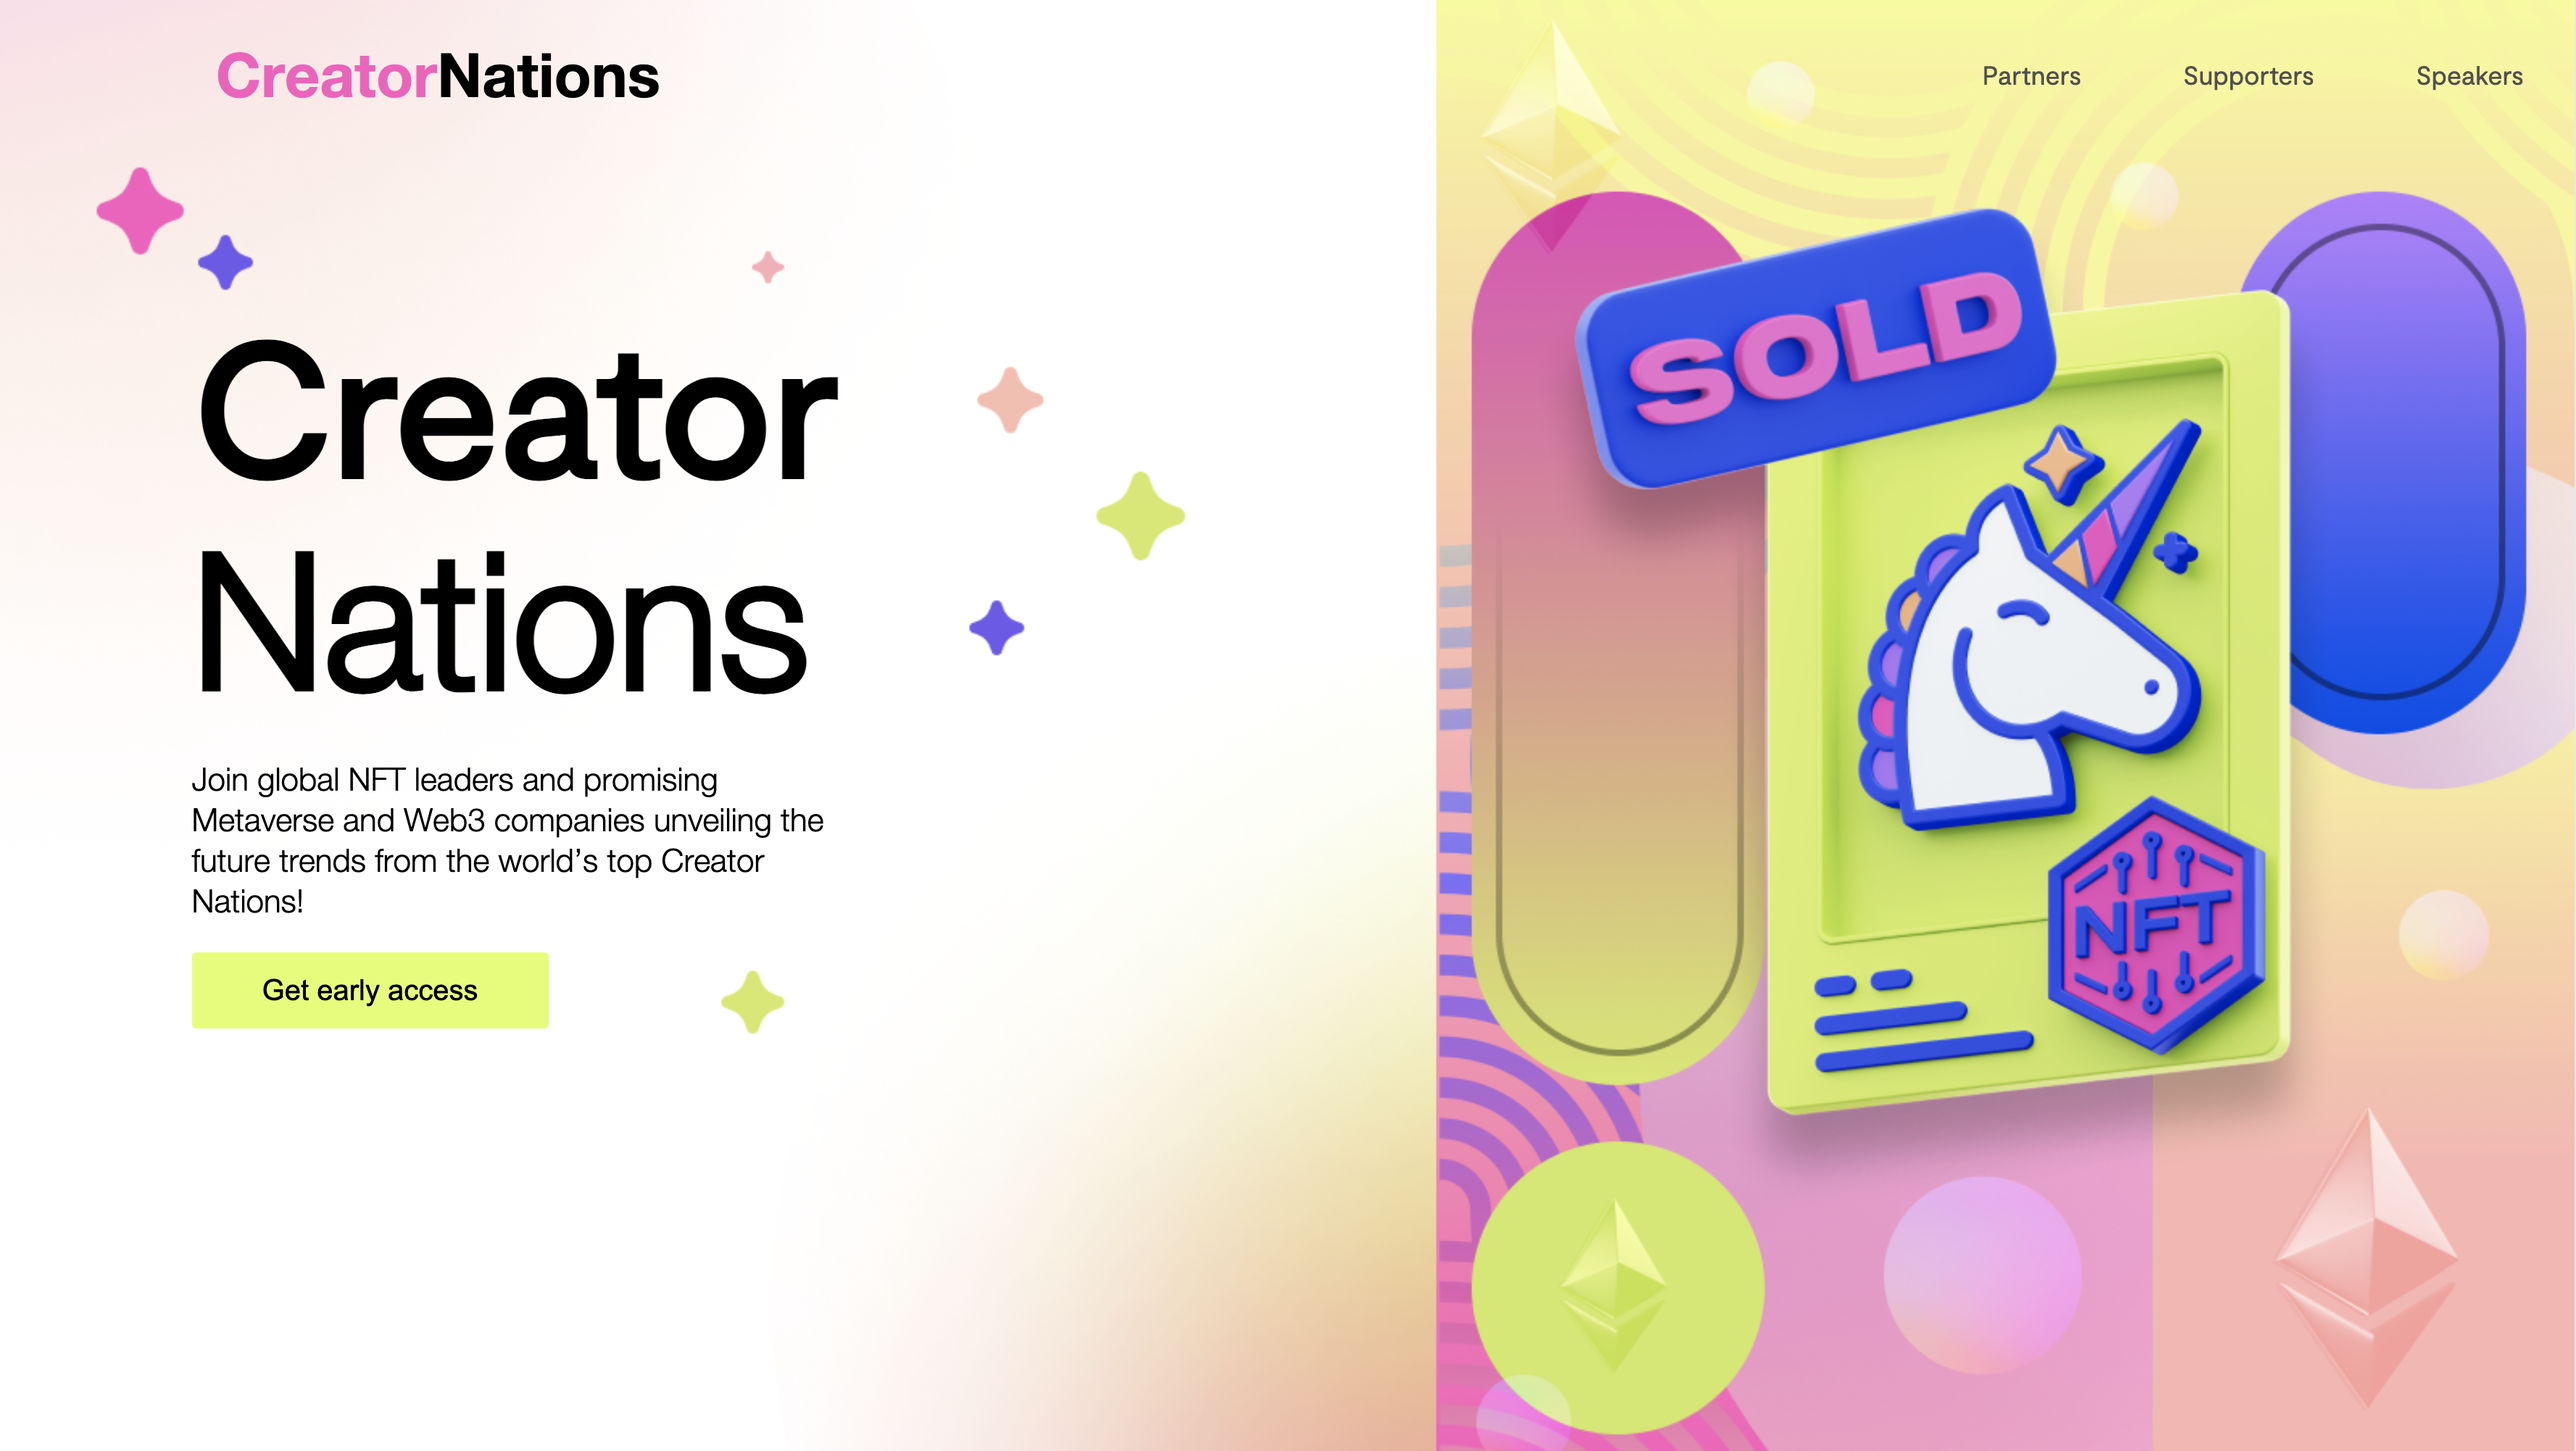
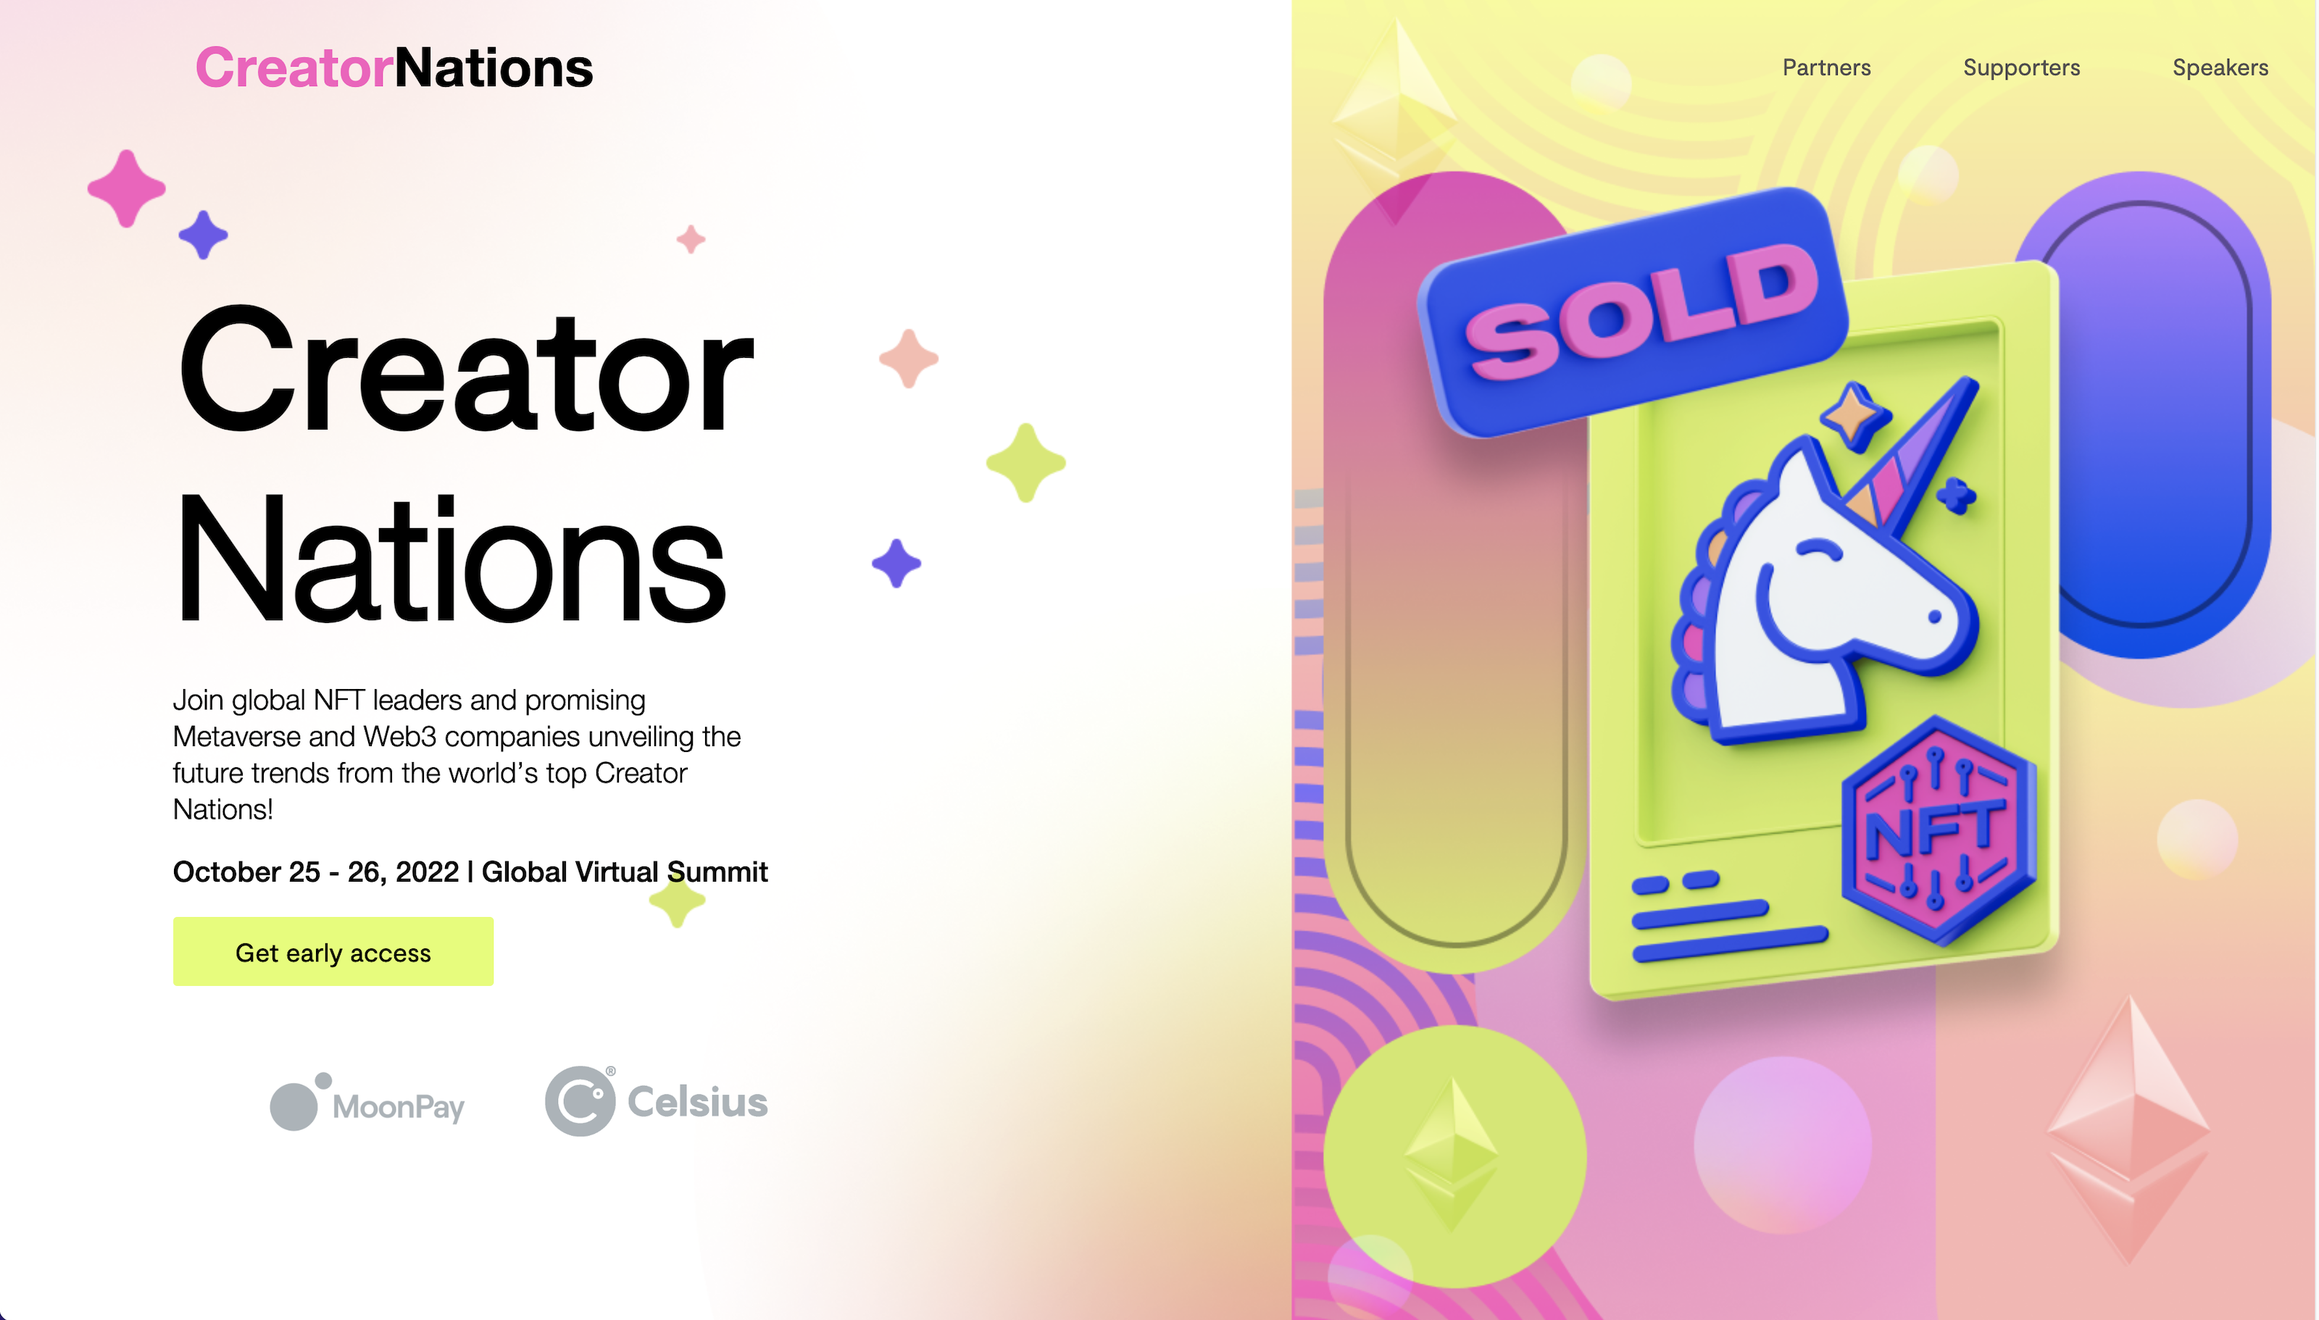
Update summit date, fix contact and update metadata image

diff --git a/pages/_document.js b/pages/_document.js
@@ -5,7 +5,7 @@ export default class MyDocument extends Document {
     return (
       <Html>
         <Head>
-          <meta itemProp="name" content="Cryptoweek.co.il" />
+          <meta itemProp="name" content="CreatorNations.com" />
           <meta
             itemProp="description"
             content="Join global crypto leaders, VC firms and promising blockchain
@@ -14,9 +14,9 @@ export default class MyDocument extends Document {
           />
           <meta itemProp="image" content="/images/metadata_img.png" />
 
-          <meta property="og:url" content="https://cryptoweek.co.il" />
+          <meta property="og:url" content="https://creatornations.com" />
           <meta property="og:type" content="website" />
-          <meta property="og:title" content="Cryptoweek.co.il" />
+          <meta property="og:title" content="CreatorNations.com" />
           <meta
             property="og:description"
             content="Join global crypto leaders, VC firms and promising blockchain
@@ -26,7 +26,7 @@ export default class MyDocument extends Document {
           <meta property="og:image" content="/images/metadata_img.png" />
 
           <meta name="twitter:card" content="summary_large_image" />
-          <meta name="twitter:title" content="Cryptoweek.co.il" />
+          <meta name="twitter:title" content="CreatorNations.com" />
           <meta
             name="twitter:description"
             content="Join global crypto leaders, VC firms and promising blockchain

diff --git a/components/home/Feature/Feature.tsx b/components/home/Feature/Feature.tsx
@@ -20,12 +20,24 @@ export function Feature({ featurePartners }: IProps) {
           src="/images/feature/NFT_Unicorn.png"
           alt="NFT_Unicorn"
         />
-        <p className={styles.description}>
-          Join global NFT leaders and promising Metaverse and Web3 companies
-          unveiling the future trends from the world’s top Creator Nations!
-        </p>
+        <div>
+          <p className={styles.description}>
+            Join global NFT leaders and promising Metaverse and Web3 companies
+            unveiling the future trends from the world’s top Creator Nations!
+          </p>
 
-        <button className={styles.button}>Get early access</button>
+          <p className={styles.dateHeadline}>
+            October 25 - 26, 2022 | Global Virtual Summit
+          </p>
+        </div>
+
+        <a
+          className={styles.buttonLink}
+          href="https://next.brella.io/join/CreatorNations"
+          target="_blank"
+          rel="noopener noreferrer">
+          Get early access
+        </a>
 
         <div className={styles.partners}>
           {featurePartners.map((partner) => (

diff --git a/pages/api/send-message.ts b/pages/api/send-message.ts
@@ -1,0 +1,38 @@
+import nodemailer from "nodemailer";
+import type { NextApiRequest, NextApiResponse } from "next";
+
+const transporter = nodemailer.createTransport({
+  service: "gmail",
+  auth: {
+    user: "coinnations21@gmail.com",
+    pass: "Nir123456789",
+  },
+});
+
+export default async function handler(
+  req: NextApiRequest,
+  res: NextApiResponse
+) {
+  const message = {
+    from: req.body.email,
+    to: "coinnations21@gmail.com",
+    subject: `Contact from ${req.body.firstName}`,
+    html: `
+        <h3>Client Name: ${req.body.firstName} ${req.body.lastName}</h3>
+        <h3>Client Email: ${req.body.email}</h3>
+        <h5>Company: ${req.body.company}</h5>
+        <p>${req.body.message}</p>
+      `,
+  };
+  return new Promise((resolve, reject) => {
+    transporter.sendMail(message, function (err, info) {
+      if (err) {
+        console.log(err);
+        res.send("error" + JSON.stringify(err));
+      } else {
+        console.log("mail sent");
+        res.send("success");
+      }
+    });
+  });
+}

diff --git a/components/home/Feature/Feature.module.css b/components/home/Feature/Feature.module.css
@@ -102,7 +102,8 @@
   }
 }
 
-.button {
+.buttonLink {
+  text-align: center;
   background-color: #e1ff65;
   color: #000;
   padding: 15px 30px;
@@ -113,7 +114,7 @@
   transition: 0.3s ease-in-out;
 }
 
-.button:hover {
+.buttonLink:hover {
   transform: translateY(-5px);
   cursor: pointer;
 }
@@ -152,5 +153,26 @@
     position: absolute;
     top: 20%;
     right: 5%;
+  }
+}
+
+.dateHeadline {
+  font-family: "Neue-Helvetica-Medium", "san-serif";
+  font-size: 22px;
+}
+
+@media screen and (max-width: 860px) {
+  .dateHeadline {
+    text-align: center;
+    font-size: 20px;
+    line-height: 32px;
+    width: 100%;
+  }
+}
+
+@media screen and (max-width: 520px) {
+  .dateHeadline {
+    font-size: 17px;
+    padding: 5px;
   }
 }
